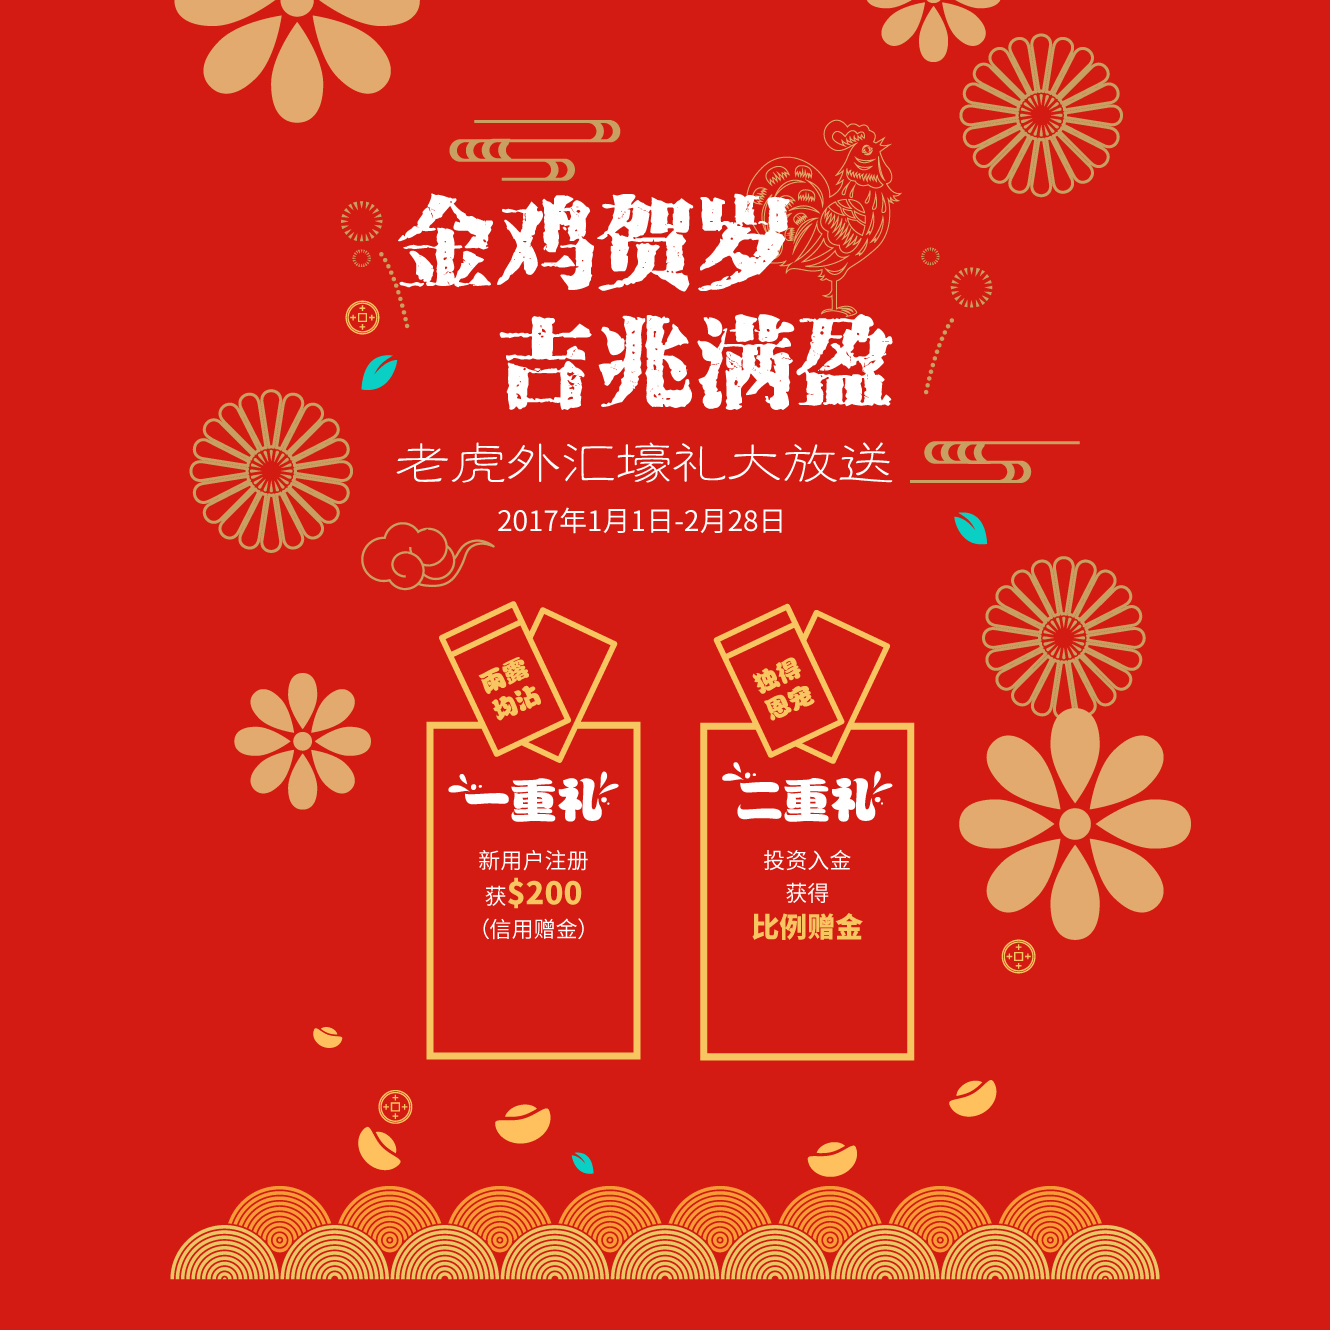
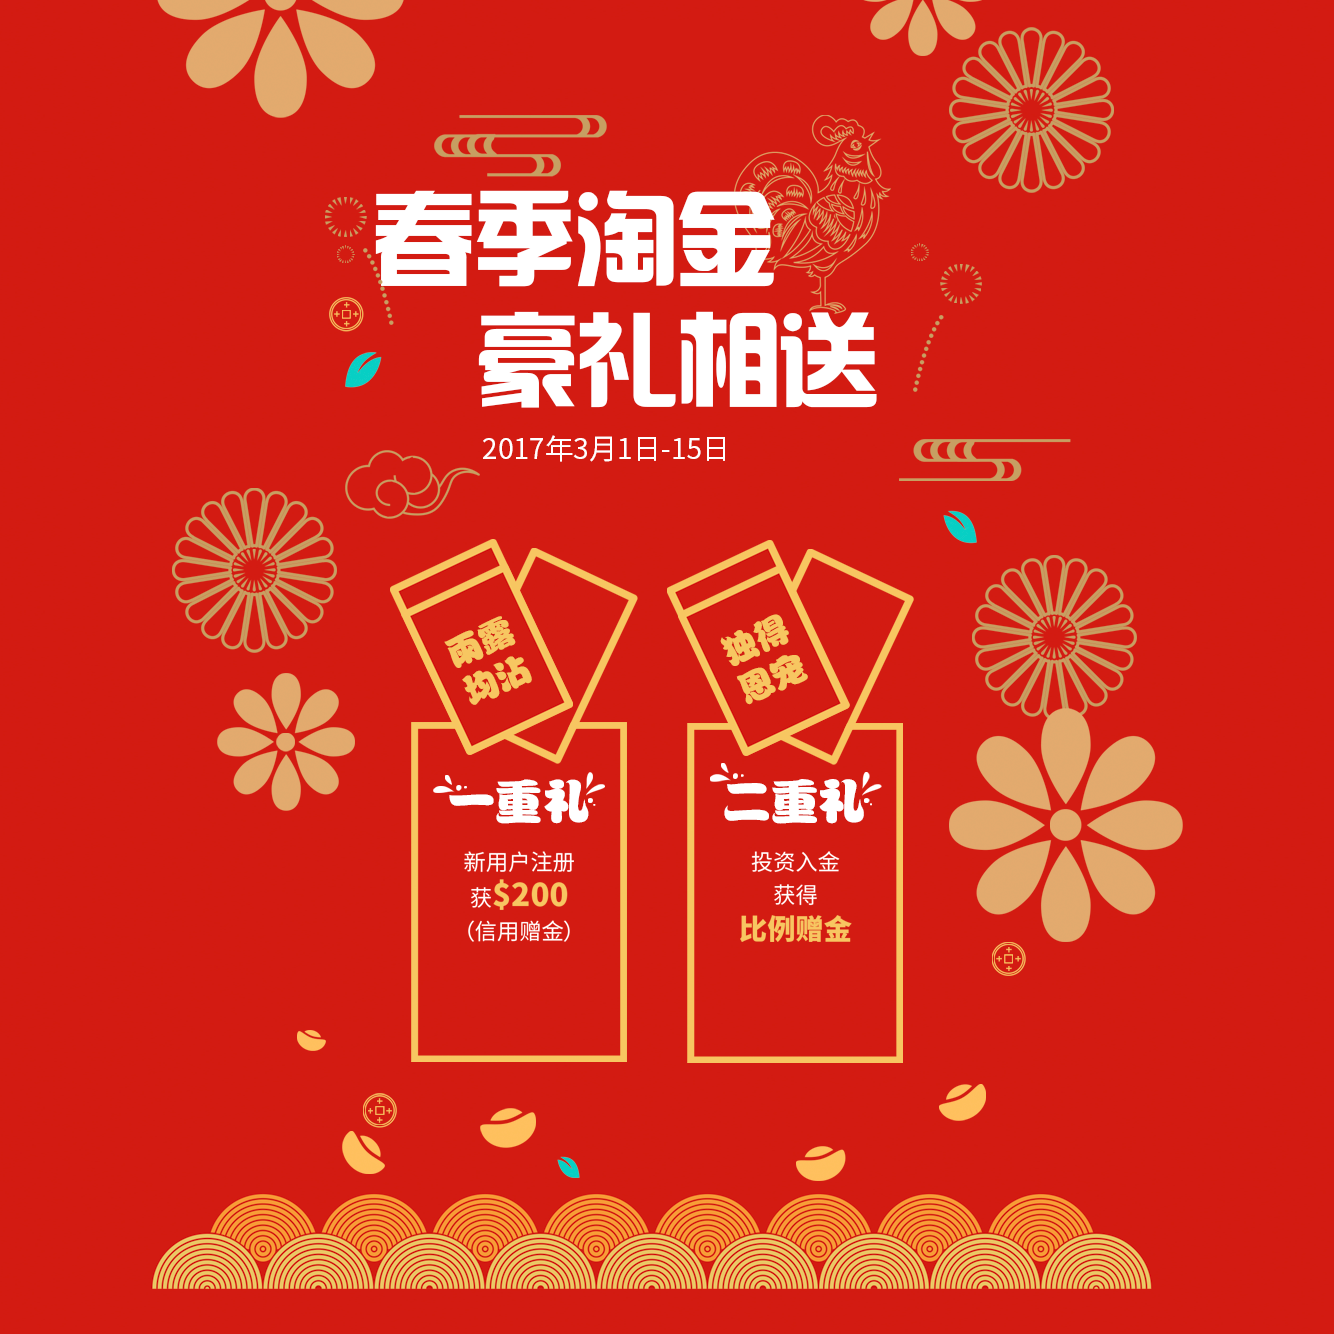
MOD:ACTIVITY-T33

diff --git a/client/scripts/bd/t30/check.js b/client/scripts/bd/t30/check.js
@@ -59,7 +59,7 @@ $(document).ready(function () {
 
             var username_length = parseInt(checkLength(input.val()));
             if (username_length < 4 || username_length > 16) {
-                input.val(" 昵称应在4到16个字符之间").addClass("warning");
+                input.val("昵称应在4到16个字符之间").addClass("warning");
             }
         } else if (!(/^[\u4e00-\u9fa5A-Za-z\d]+$/.test(input.val()))) {
             input.val("昵称不合法").addClass("warning");
@@ -71,8 +71,8 @@ $(document).ready(function () {
         var rPhone = input.val() ? input.val() : "";
         var isMobile = /^(13|14|15|17|18)\d{9}$/;
         var isPhone = /^((0\d{2,4})-)?(\d{7,8})(-(\d{2,}))?$/;
-        if ((input.val() == "") || (input.val() == "请填写有效的电话号码") || (!isMobile.test(input.val()) && !isPhone.test(input.val()))) {
-            input.val("请填写有效的电话号码").addClass("warning");
+        if ((input.val() == "") || (input.val() == "请填写有效的手机号码") || (!isMobile.test(input.val()))) {
+            input.val("请填写有效的手机号码").addClass("warning");
         }
         var input = $('#' + info.emailId);
         var rEmail = input.val() ? input.val() : "";

diff --git a/server/lang_data.js b/server/lang_data.js
@@ -271,7 +271,7 @@ module.exports = function () {
         "home47": { "en": "The secret of successful investment does not lie in the social influence and development prospect of a certain industry, but in a company's competitive edges and the sustainability of such edges. Only everlasting and profound product and service superiorities can generate generous returns for investors.", "zh": "投资的秘诀、不是评估某一行业对社会的影响有多大、或它的发展前景有多好、而是一间公司有多强的竞争优势、这优势可以维持多久。产品和服务的优越性持久而深厚、才能给投资者带来优厚的回报。" },
         "home48": { "en": "-Warren Buffett", "zh": "—— 沃伦·巴菲特" },
         // home banner
-        "home49": { "en": "With the new year and Good omen full", "zh": "金鸡贺岁 吉兆满盈" },
+        "home49": { "en": "Gold house ceremony to send spring", "zh": "春季淘金 豪礼相送" },
         "home50": { "en": " ", "zh": " " },
         "home59": { "en": "The new user registration can get", "zh": "新用户注册享" },
         "home60": { "en": "$200", "zh": " $200" },

diff --git a/client/styles/bd/t33/m_t33.scss b/client/styles/bd/t33/m_t33.scss
@@ -185,12 +185,11 @@
         position: absolute;
       }
       .matters_btn {
-
-        top: 37%;
-        right: 4rem;
+          top: 32%;
+          right: 5.4rem;
         &.t33_t,&.t33_a,&.t33_b{
           right: 40%;
-          top: 38%!important;
+          top: 34%!important;
         }
       }
       .detail {
@@ -199,10 +198,10 @@
         padding: 0.5rem 1.2rem !important;
       }
       .detail.btn1 {
-        left: 6.15rem;
+        left: 5.8rem;
       }
       .detail.btn2 {
-        right: 5.9rem;
+        right: 6.2rem;
       }
 
     }
